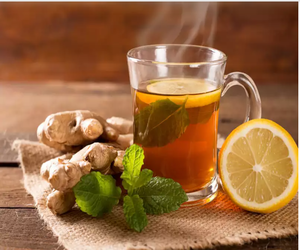
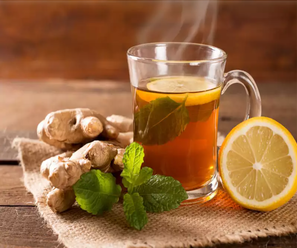
changed cover image + reduced image sizes

diff --git a/styles/style.css b/styles/style.css
@@ -71,6 +71,8 @@ body:after {
     position: relative;
     top: -2px;
     height: calc(100vh - 53px);
+    background-image: url("./../assets/landing_image.jpg");
+    background-size: cover;  
 }
 .banner img {
     min-width: 100%;
@@ -92,7 +94,7 @@ body:after {
     font-size: 60px;
 }
 .banner-content h2 span {
-    color: #9dc53d;
+    color: #59a60c;
 }
 .banner-content h3 {
     font-size: 50px;
@@ -106,6 +108,7 @@ body:after {
     color: #ffcd0e;
     margin: 15px 0;
     font-size: 40px;
+    text-shadow: 1px 1px 1px #8a7753, -1px -1px 1px #8a7753, 1px -1px 1px #8a7753, -1px 1px 1px #8a7753;
 }
 .product-section .item {
     padding: 2%;

diff --git a/index.html b/index.html
@@ -15,7 +15,6 @@
         </div>
         <div class="content" id="content-wrapper">
             <div class="banner">
-                <img src="./assets/landing_image.jpg"/>
                 <div class="banner-content">
                     <h2>
                         Freshely brewed
